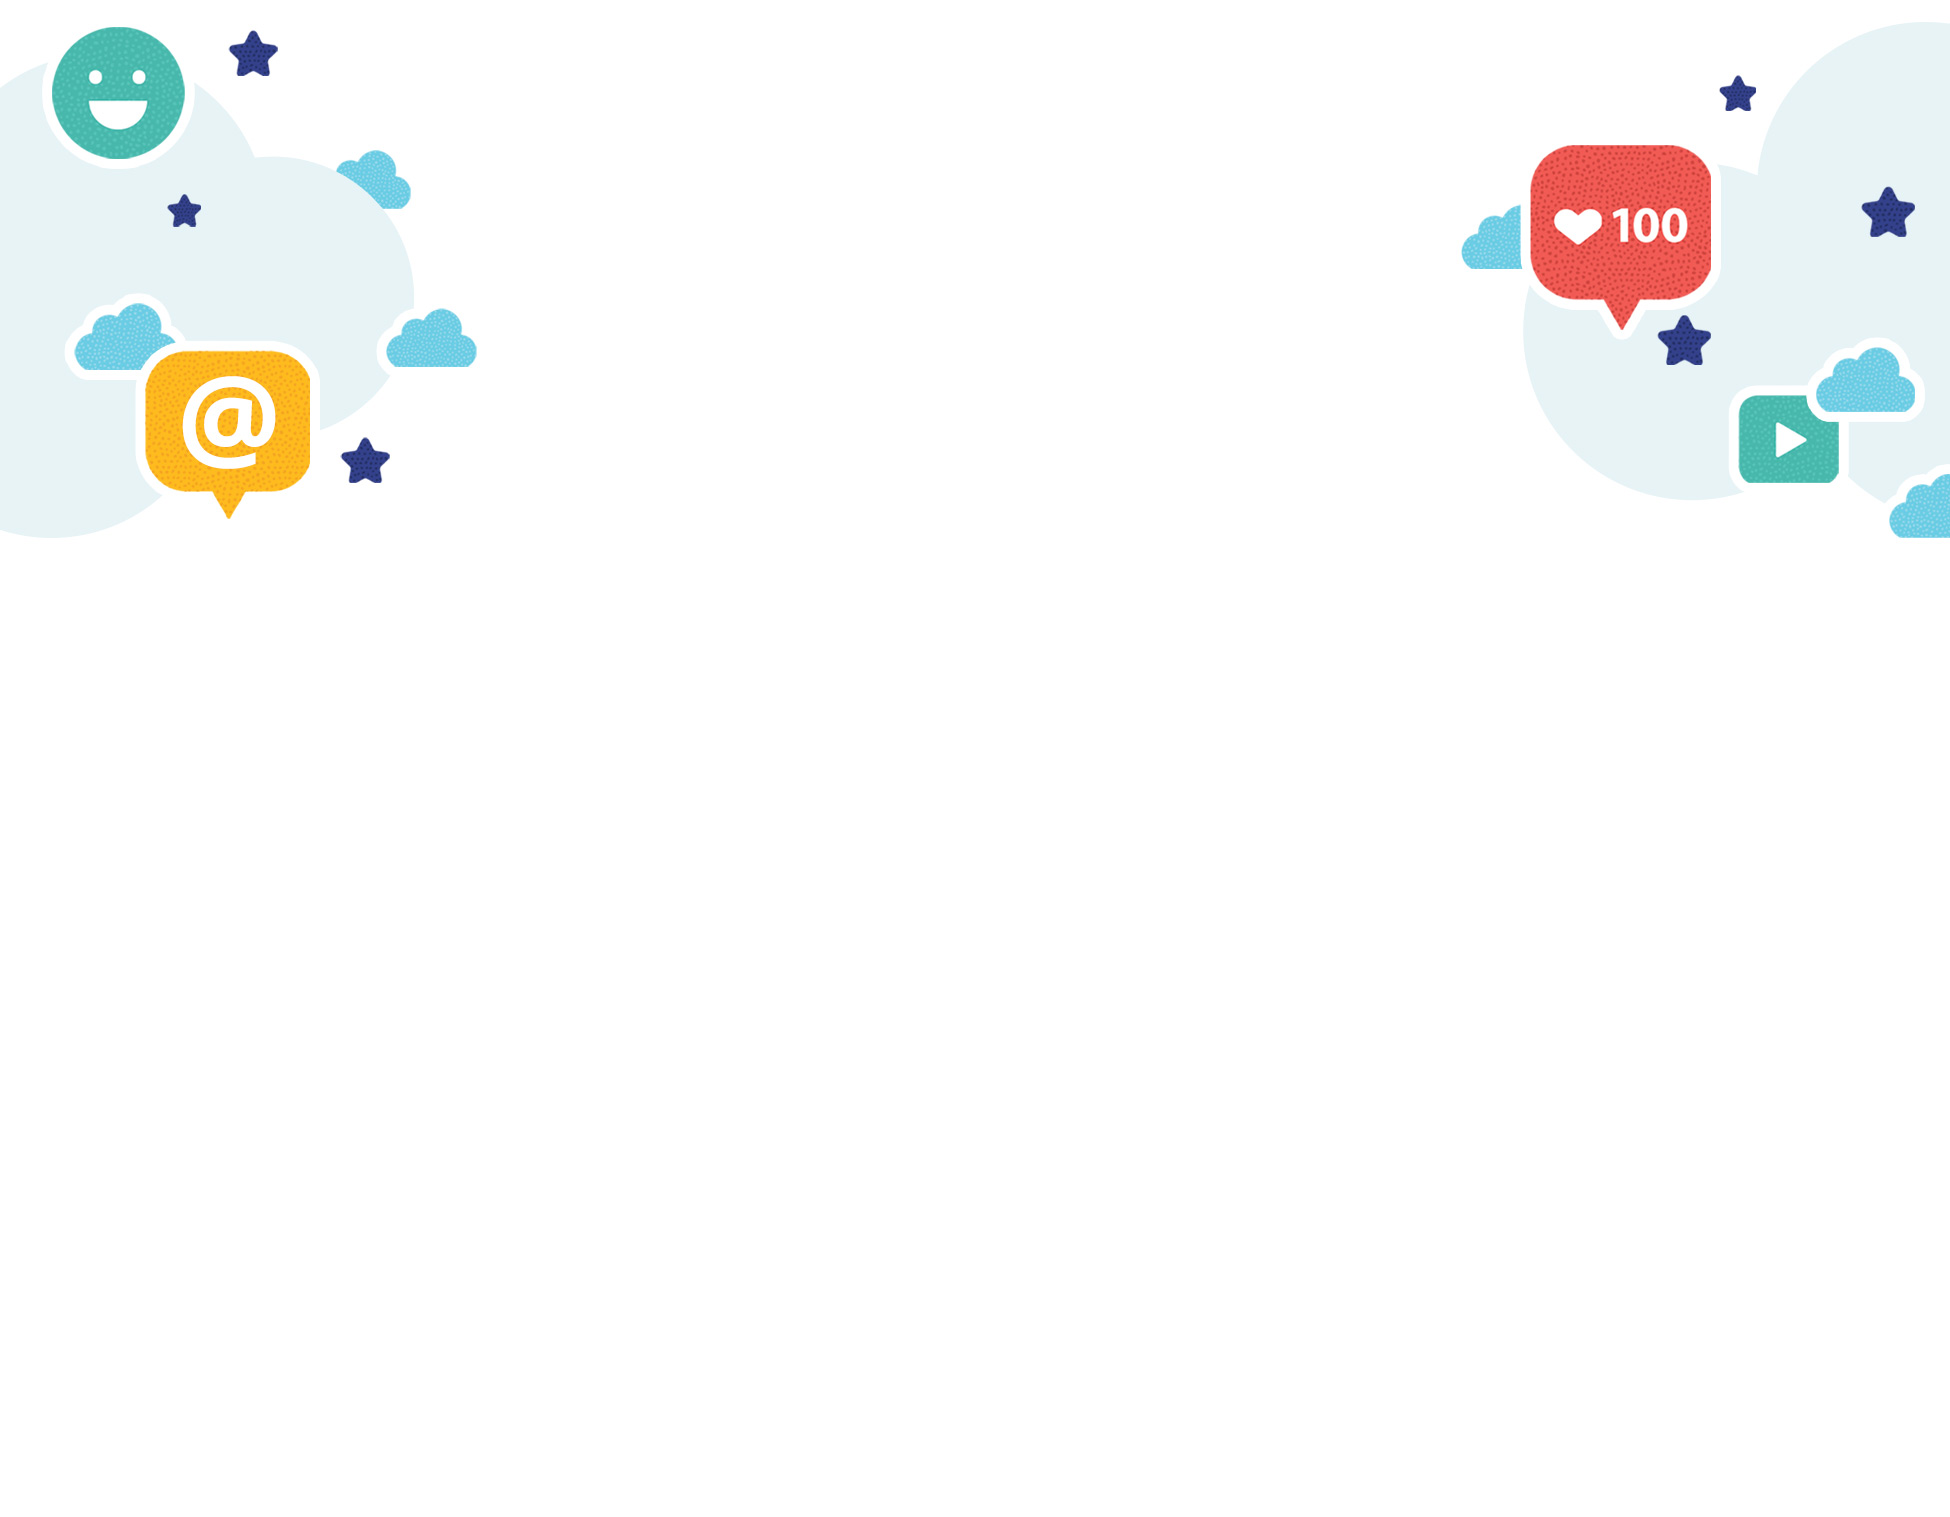
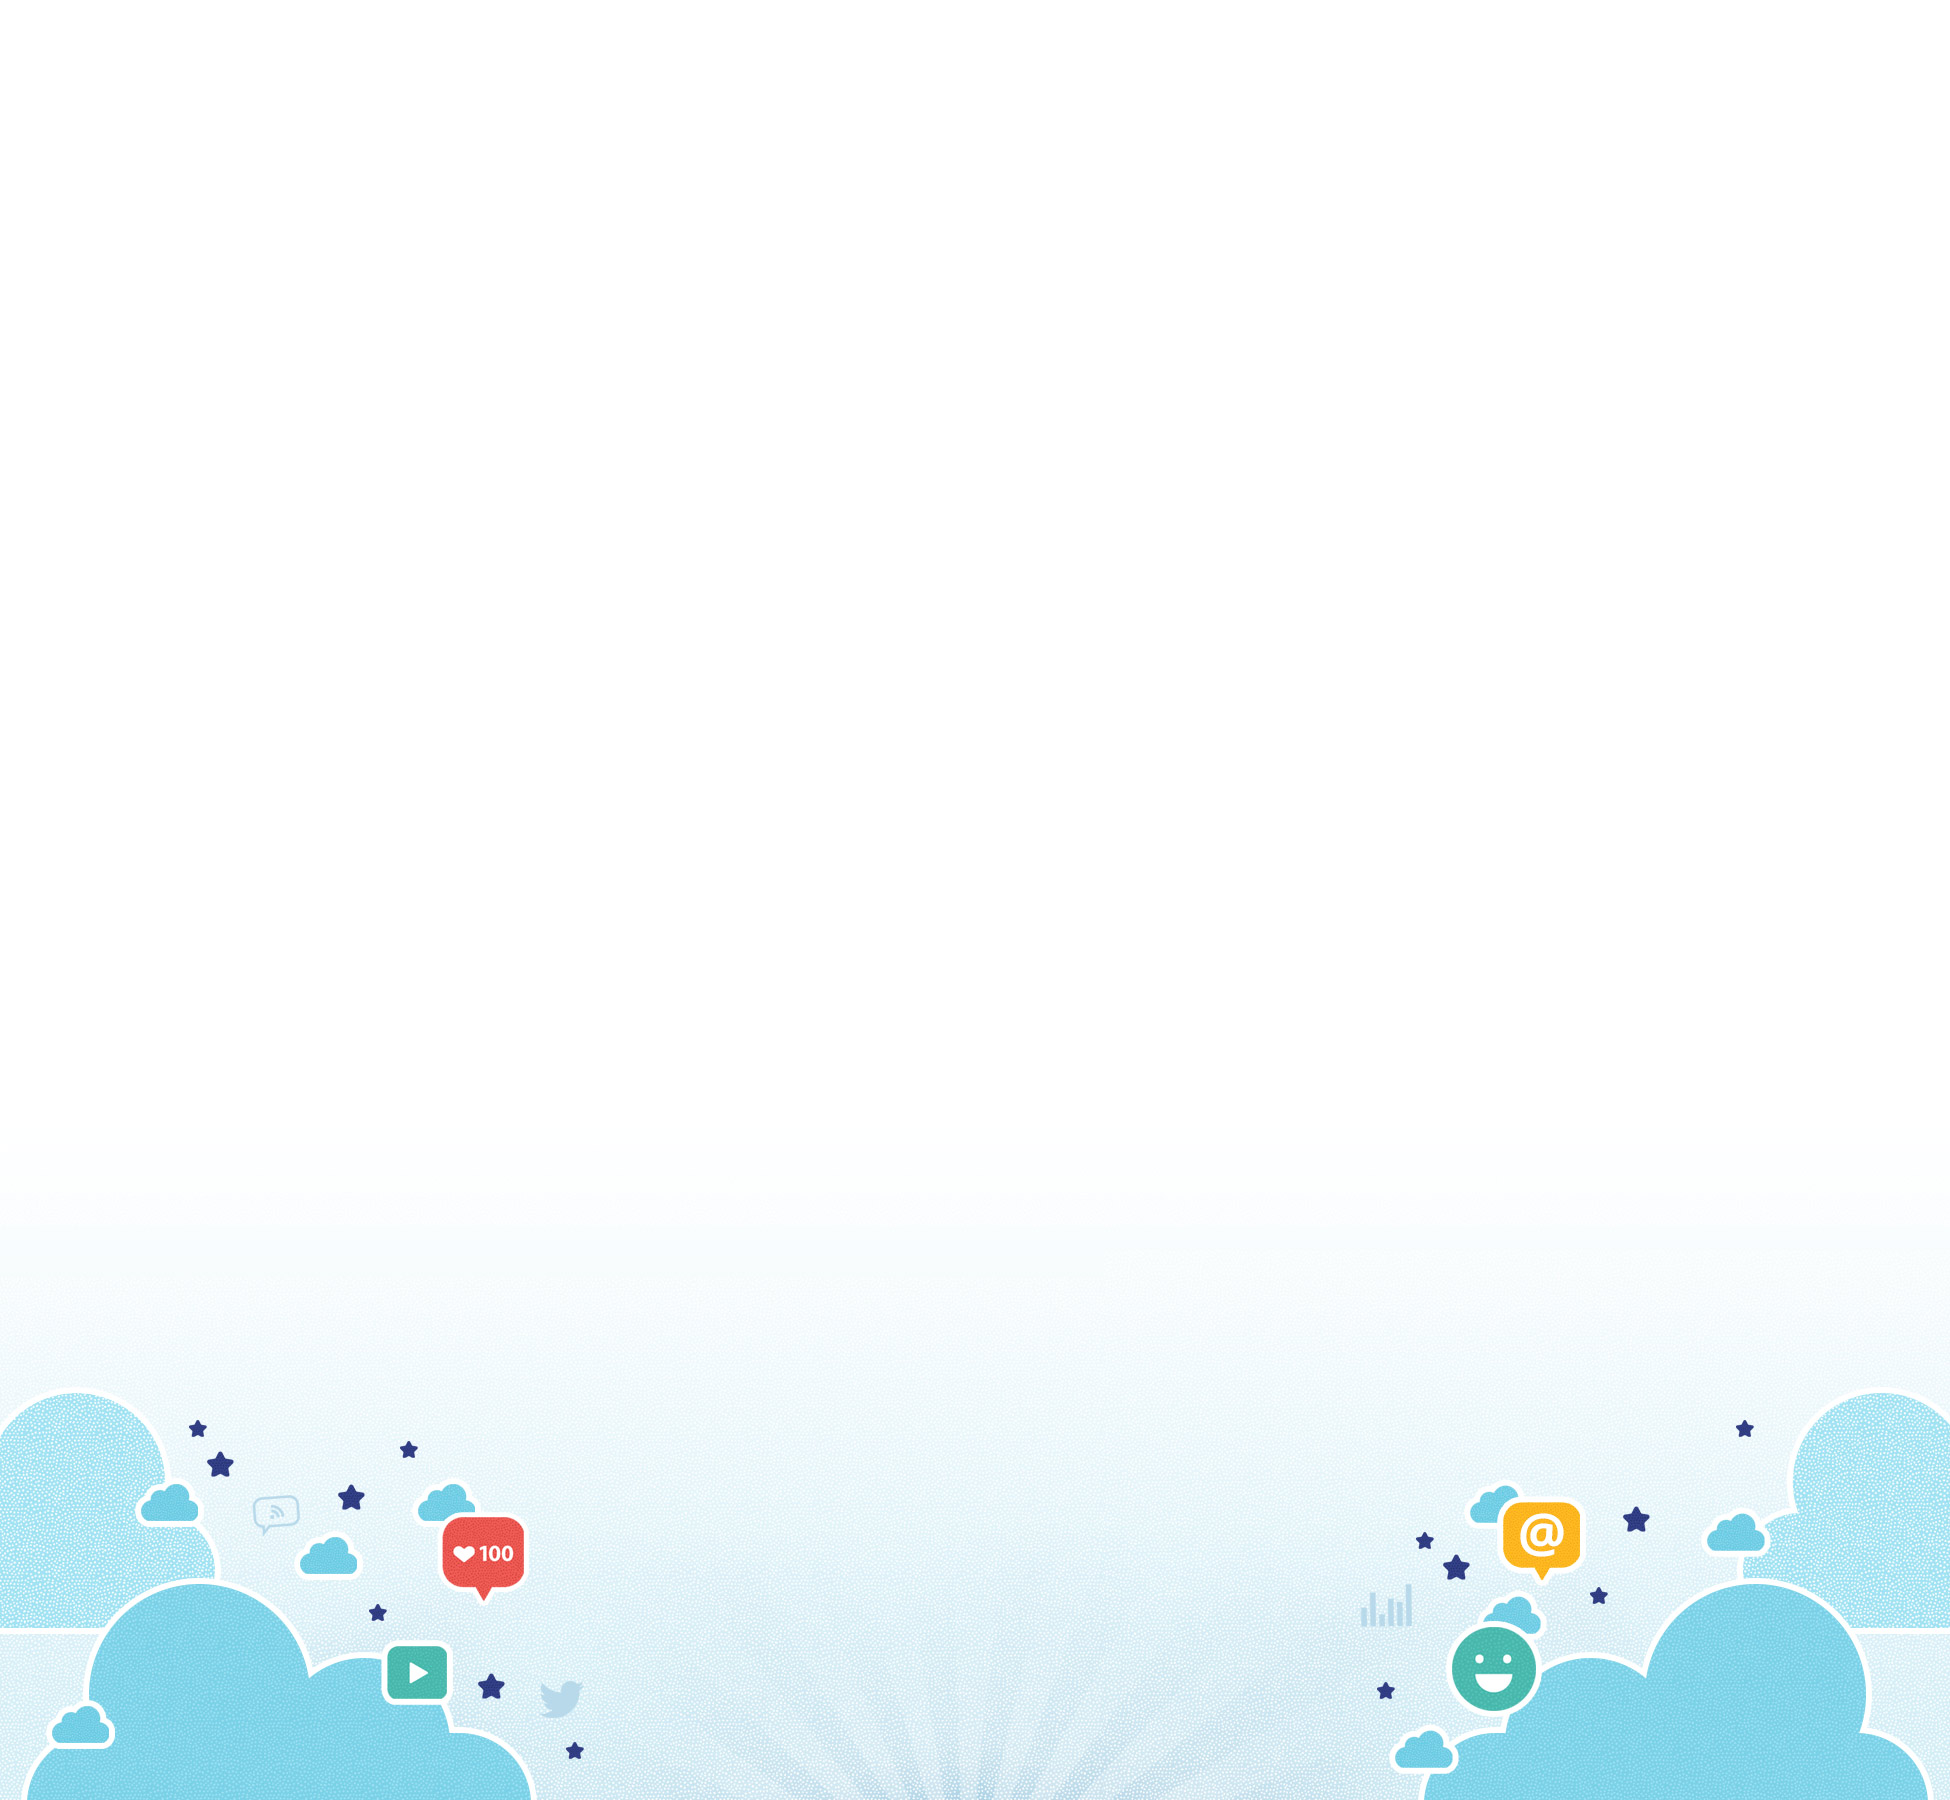
event page changes

diff --git a/src/pages/events.js b/src/pages/events.js
@@ -9,11 +9,11 @@ import EventCardZero from "../components/EventCardZero";
 import Container from "../components/Container";
 import SEO from "../components/SEO";
 import Hexagons from "../images/hexagons.svg";
-import Logo from "../images/generic_bootcamp_logo.png";
+import Logo from "../images/generic_bootcamp.png";
 import Search from "elevate-ui-icons/Search";
 import eventsbg from "../images/events_bg.jpg";
-import SMBCLogo from "../images/socialmedia_bootcamp_logo1.png";
-import LGBCLogo from "../images/leadgen_bootcamp_logo2.png";
+import SMBCLogo from "../images/sm_bootcamp.png";
+import LGBCLogo from "../images/lg_bootcamp.png";
 import WebinarsLogo from "../images/edu_webinar_logo3.png";
 
 class Events extends Component {
@@ -85,7 +85,7 @@ class Events extends Component {
 
         <div className={classes.eventsBackground}>
         <Container>
-          <div style={{ textAlign: "center" }}>
+          <div style={{ textAlign: "center", paddingTop:"50px" }}>
             <img src={Logo} className={classes.logoStyle}/>
           </div>
           <div className={classes.titleText}>
@@ -96,21 +96,53 @@ class Events extends Component {
         <Container>
           <div className={classes.top}>
             {/* <div className={classes.heading} style={{ marginRight: "auto", marginLeft: "auto",textAlign:"center" }}>Upcoming Webinars &amp; Live Events</div> */}
-            <div style={{width:"31%", height:"180px", margin:"10px", textAlign:"center"}}>
-              <Link className={classes.bootcampLink} to="/events_sm">
-                <img src={SMBCLogo} className={classes.subLogoStyle} />
-              </Link>
+            <div style={{width:"45%", height:"300px", margin:"20px", textAlign:"center", paddingTop:"25px", paddingBottom:"25px"}}>
+                    <Link className={classes.bootcampLink} to="/events_sm">
+                      <img src={SMBCLogo} className={classes.subLogoStyle}/>
+                    </Link><br />
+                    <div className={classes.subtitleText}>Turn your social media from a toy into a tool</div>
+                    <div className={classes.subtext}>The #1 boot camp for real estate agents continues
+                    to take the US by storm. This 2-hr, interactive
+                    educational seminar is designed to inspire
+                    and empower agents with tips, tricks &amp; strategies
+                    for conquering their website, blog and social media.</div>
             </div>
-            <div style={{ width: "31%", height: "180px", margin: "10px", textAlign: "center" }}>
-              <Link className={classes.bootcampLink} to="/events_lg">
-                <img src={LGBCLogo} className={classes.subLogoStyle} />
-              </Link>
+            <div style={{ width: "45%", height: "300px", margin: "20px", textAlign: "center", paddingTop:"25px", paddingBottom:"25px" }}>
+                    <Link className={classes.bootcampLink} to="/events_lg">
+                      <img src={LGBCLogo} className={classes.subLogoStyle} />
+                    </Link><br />
+                    <div className={classes.subtitleText}>Capture, nurture &amp; convert more leads</div>
+                    <div className={classes.subtext}>The NEW high-energy, 2-hr session teaches
+                    brokers and agents alike the secrets of online lead generation
+                    used by top performers in the industry.  Attendees will learn
+                    the three main types of lead generation, along with
+                    the pros, cons and best practices to capture,
+                    nurture &amp; convert more online business in less time.</div>
+             </div>
+          </div>
+
+          <div className={classes.top}>
+            {/* <div className={classes.heading} style={{ marginRight: "auto", marginLeft: "auto",textAlign:"center" }}>Upcoming Webinars &amp; Live Events</div> */}
+            <div style={{width:"45%", height:"280px", margin:"20px", textAlign:"center", paddingTop:"25px", paddingBottom:"25px"}}>
+                    <div className={classes.subtitleText2}>BROKER ONLY MASTERMIND</div>
+                    <div className={classes.subtitleText}>Empowering brokers to lead &amp; succeed</div>
+                    <div className={classes.subtext}>You asked and we delivered! This half-day
+                    broker-only session addresses the key business practices
+                    and KPIs that brokers should pay attention to in order
+                    to succeed and grow.  Topics include lead generation,
+                    agent recruitment and retention, the most important KPIs
+                    and metrics to follow, and much more.</div>
             </div>
-            <div style={{ width: "31%", height: "180px", margin: "10px", textAlign: "center" }}>
-              <Link className={classes.bootcampLink} to="/events_webinars">
-                <img src={WebinarsLogo} className={classes.subLogoStyle} />
-              </Link>
-            </div>
+            <div style={{ width: "45%", height: "280px", margin: "20px", textAlign: "center", paddingTop:"25px", paddingBottom:"25px" }}>
+                    <div className={classes.subtitleText2}>CUSTOM DEEP DIVES</div>
+                    <div className={classes.subtitleText}>Educational itinerary designed just for you</div>
+                    <div className={classes.subtext}>Work with the Elevate Educational Team to develop
+                    a custom experience for your membership and/or agents.
+                    Popular past deep dives include Facebook intensives,
+                    developing content for consumer audiences,
+                    agent recruitment &amp; retention strategies, and
+                    developing a website designed to capture &amp; convert.</div>
+             </div>
           </div>
           <div className={classes.inputWrapper}>
             <input
@@ -255,7 +287,7 @@ export const query = graphql`
 export default withStyles((theme) => ({
   root: {
     position: "relative",
-    paddingTop: "40px",
+    paddingTop: "5px",
     paddingBottom: "192px",
   },
   top: {
@@ -315,28 +347,55 @@ export default withStyles((theme) => ({
     marginTop: "32px",
   },
   logoStyle:{
-    width:"80%",
+    width:"100%",
+    maxWidth:"350px",
     [theme.breakpoints[900]]: {
       width: "40%"
     },
   },
   subLogoStyle:{
-    width:"90%",
+    width:"100%",
+    maxWidth:"300px"
   },
 
   titleText: {
-    fontSize: "28px",
+    fontSize: "20px",
     lineHeight: "36px",
     fontWeight: "700",
     textAlign: "center",
-    paddingBottom: "24px",
-    paddingTop: "40px"
+    paddingBottom: "34px",
+    paddingTop: "30px"
+  },
+
+  subtitleText: {
+    fontSize: "18px",
+    lineHeight: "30px",
+    fontWeight: "700",
+    color: "#4cbbb0",
+    textAlign: "center",
+    paddingTop: "10px",
+  },
+
+  subtitleText2: {
+    fontSize: "22px",
+    lineHeight: "24px",
+    fontWeight: "700",
+    color: "#28336f",
+    textAlign: "center",
+    paddingTop: "10px",
+  },
+
+  subtext: {
+    fontSize: "16px",
+    lineHeight: "22px",
+    fontWeight: "500",
+    color: "#50555c",
+    textAlign: "center",
   },
 
   eventsBackground: {
     backgroundImage: `url('${eventsbg}')`,
-    backgroundSize: "cover",
-    backgroundPosition: "absolute",
+    backgroundPosition: "bottom",
     width:"100%",
   },
 }))(Events);
